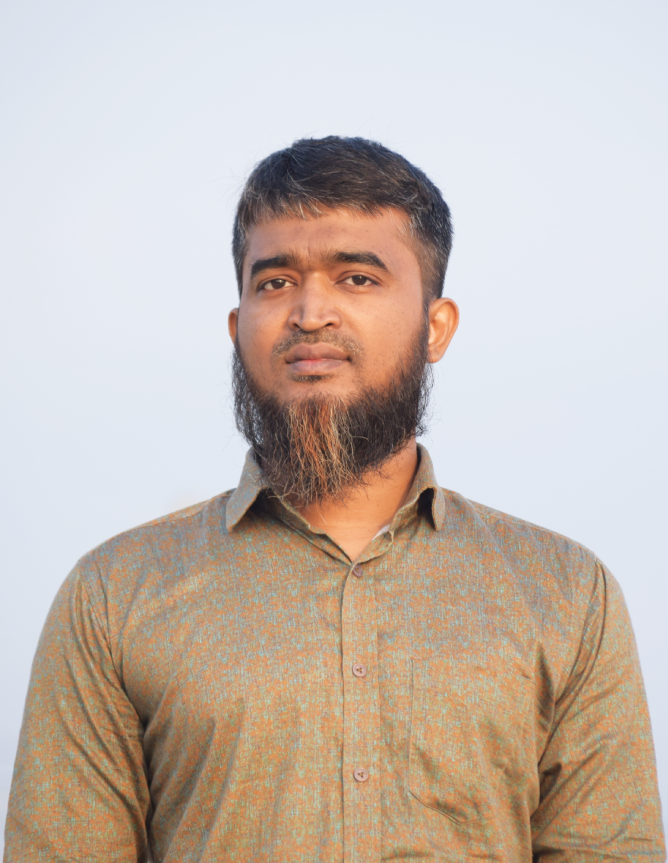
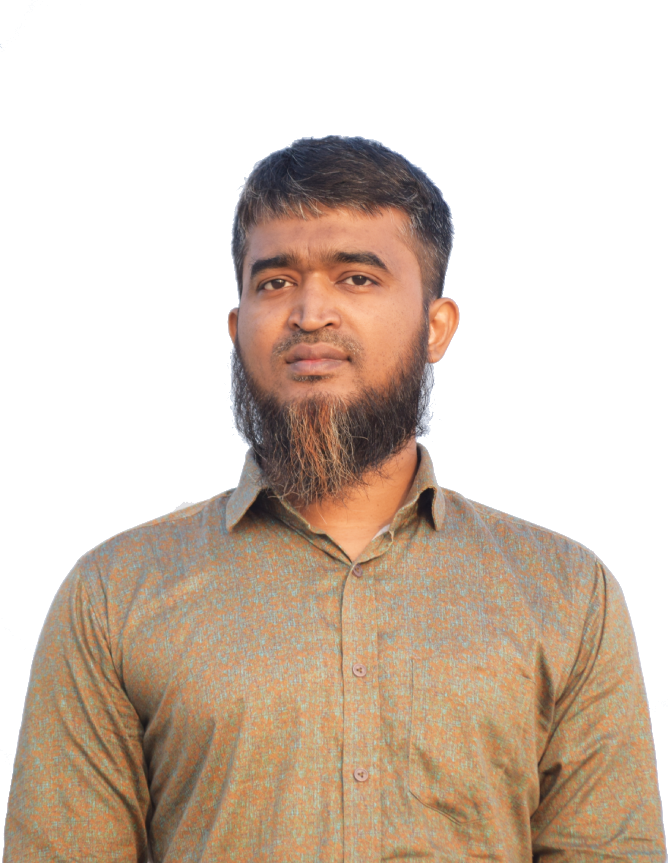
webp avater added

diff --git a/index.html b/index.html
@@ -45,7 +45,7 @@
     <!-- Navbar Start -->
     <nav class="navbar navbar-expand-lg bg-white navbar-light fixed-top shadow py-lg-0 px-4 px-lg-5 wow fadeIn" data-wow-delay="0.1s">
         <a href="index.html" class="navbar-brand d-block d-lg-none">
-            <h1 class="text-primary fw-bold m-0">ProMan</h1>
+            <h1 class="text-primary fw-bold m-0">Md Zakir Hossen</h1>
         </a>
         <button type="button" class="navbar-toggler" data-bs-toggle="collapse" data-bs-target="#navbarCollapse">
             <span class="navbar-toggler-icon"></span>
@@ -57,8 +57,8 @@
                 <a href="#skill" class="nav-item nav-link">Skills</a>
                 <a href="#service" class="nav-item nav-link">Services</a>
             </div>
-            <a href="index.html" class="navbar-brand bg-secondary py-3 px-4 mx-3 d-none d-lg-block">
-                <h1 class="text-primary fw-bold m-0">ProMan</h1>
+            <a href="index.html" class="navbar-brand py-1 px-1 mx-3 d-none d-lg-block">
+                <h1 class="fw-bold m-0">Md Zakir Hossen</h1>
             </a>
             <div class="navbar-nav me-auto py-0">
                 <a href="#project" class="nav-item nav-link">Projects</a>
@@ -81,43 +81,21 @@
                     <h2 class="typed-text-output d-inline"></h2>
                     <div class="typed-text d-none">Web Developer, WordPress Developer, PHP Developer, Front End Developer, React Native Apps Developer</div>
                     <div class="d-flex align-items-center pt-5">
-                        <a href="" class="btn btn-primary py-3 px-4 me-5">Download CV</a>
-                        <button type="button" class="btn-play" data-bs-toggle="modal"
-                            data-src="https://www.youtube.com/embed/DWRcNpR6Kdc" data-bs-target="#videoModal">
-                            <span></span>
-                        </button>
-                        <h5 class="ms-4 mb-0 d-none d-sm-block">Play Video</h5>
+                        <!-- <a href="#contact" class="btn btn-primary py-3 px-4 me-5">Hire Me</a> -->
+                        <p>Follow me:</p>
+                    </div>
+                    <div class="d-flex align-items-center">
+                        <a class="btn btn-square btn-primary me-2 fs-3" href="https://github.com/zakirsujon" target="_blank"><i class="fab fa-github"></i></a>
+                        <a class="btn btn-square btn-primary me-2 fs-3" href="https://profiles.wordpress.org/zakir021063008/" target="_blank"><i class="fab fa-wordpress"></i></a>
                     </div>
                 </div>
                 <div class="col-lg-6">
-                    <img class="img-fluid" src="img/profile.webp" alt="">
+                    <!-- <img class="img-fluid" src="img/profile.webp" alt=""> -->
                 </div>
             </div>
         </div>
     </div>
     <!-- Header End -->
-
-
-    <!-- Video Modal Start -->
-    <div class="modal modal-video fade" id="videoModal" tabindex="-1" aria-labelledby="exampleModalLabel" aria-hidden="true">
-        <div class="modal-dialog">
-            <div class="modal-content rounded-0">
-                <div class="modal-header">
-                    <h3 class="modal-title" id="exampleModalLabel">Youtube Video</h3>
-                    <button type="button" class="btn-close" data-bs-dismiss="modal" aria-label="Close"></button>
-                </div>
-                <div class="modal-body">
-                    <!-- 16:9 aspect ratio -->
-                    <div class="ratio ratio-16x9">
-                        <iframe class="embed-responsive-item" src="" id="video" allowfullscreen allowscriptaccess="always"
-                            allow="autoplay"></iframe>
-                    </div>
-                </div>
-            </div>
-        </div>
-    </div>
-    <!-- Video Modal End -->
-
 
     <!-- About Start -->
     <div class="container-xxl py-6" id="about">
@@ -138,14 +116,6 @@
                     <a class="btn btn-primary py-3 px-5 mt-3" href="">Read More</a>
                 </div>
                 <div class="col-lg-6 wow fadeInUp" data-wow-delay="0.5s">
-                    <div class="row g-3 mb-4">
-                        <div class="col-sm-6">
-                            <img class="img-fluid rounded" src="img/about-1.jpg" alt="">
-                        </div>
-                        <div class="col-sm-6">
-                            <img class="img-fluid rounded" src="img/about-2.jpg" alt="">
-                        </div>
-                    </div>
                     <div class="d-flex align-items-center mb-3">
                         <h5 class="border-end pe-3 me-3 mb-0">Happy Clients</h5>
                         <h2 class="text-primary fw-bold mb-0" data-toggle="counter-up">1234</h2>
@@ -194,10 +164,10 @@
                             <div class="skill mb-4">
                                 <div class="d-flex justify-content-between">
                                     <h6 class="font-weight-bold">MySQL</h6>
-                                    <h6 class="font-weight-bold">80%</h6>
+                                    <h6 class="font-weight-bold">82%</h6>
                                 </div>
                                 <div class="progress">
-                                    <div class="progress-bar bg-danger" role="progressbar" aria-valuenow="80" aria-valuemin="0" aria-valuemax="100"></div>
+                                    <div class="progress-bar bg-danger" role="progressbar" aria-valuenow="82" aria-valuemin="0" aria-valuemax="100"></div>
                                 </div>
                             </div>
                         </div>
@@ -205,10 +175,10 @@
                             <div class="skill mb-4">
                                 <div class="d-flex justify-content-between">
                                     <h6 class="font-weight-bold">Javascript</h6>
-                                    <h6 class="font-weight-bold">80%</h6>
+                                    <h6 class="font-weight-bold">83%</h6>
                                 </div>
                                 <div class="progress">
-                                    <div class="progress-bar bg-danger" role="progressbar" aria-valuenow="80" aria-valuemin="0" aria-valuemax="100"></div>
+                                    <div class="progress-bar bg-danger" role="progressbar" aria-valuenow="83" aria-valuemin="0" aria-valuemax="100"></div>
                                 </div>
                             </div>
                             <div class="skill mb-4">
@@ -223,10 +193,10 @@
                             <div class="skill mb-4">
                                 <div class="d-flex justify-content-between">
                                     <h6 class="font-weight-bold">AWS SysOps Admin</h6>
-                                    <h6 class="font-weight-bold">80%</h6>
+                                    <h6 class="font-weight-bold">75%</h6>
                                 </div>
                                 <div class="progress">
-                                    <div class="progress-bar bg-info" role="progressbar" aria-valuenow="80" aria-valuemin="0" aria-valuemax="100"></div>
+                                    <div class="progress-bar bg-info" role="progressbar" aria-valuenow="75" aria-valuemin="0" aria-valuemax="100"></div>
                                 </div>
                             </div>
                         </div>
@@ -245,7 +215,7 @@
                         <div id="tab-1" class="tab-pane fade show p-0 active">
                             <div class="row gy-5 gx-4">
                                 <div class="col-sm-6">
-                                    <h5>UI Designer</h5>
+                                    <h5>WordPress Developer</h5>
                                     <hr class="text-primary my-2">
                                     <p class="text-primary mb-1">2000 - 2045</p>
                                     <h6 class="mb-0">Apex Software Inc</h6>

diff --git a/css/style.css b/css/style.css
@@ -434,3 +434,12 @@
 h1 {
     text-indent: -3px;
 }
+#navbarCollapse h1 {
+    text-indent: -280px;
+    color: transparent;
+    background: #d7d6a0 url('../img/zakirsujon-avater.webp') no-repeat 1px 0 / auto 100%;
+    border-radius: 5px;
+}
+#home {
+    background-color: #e4e9f1;
+}
